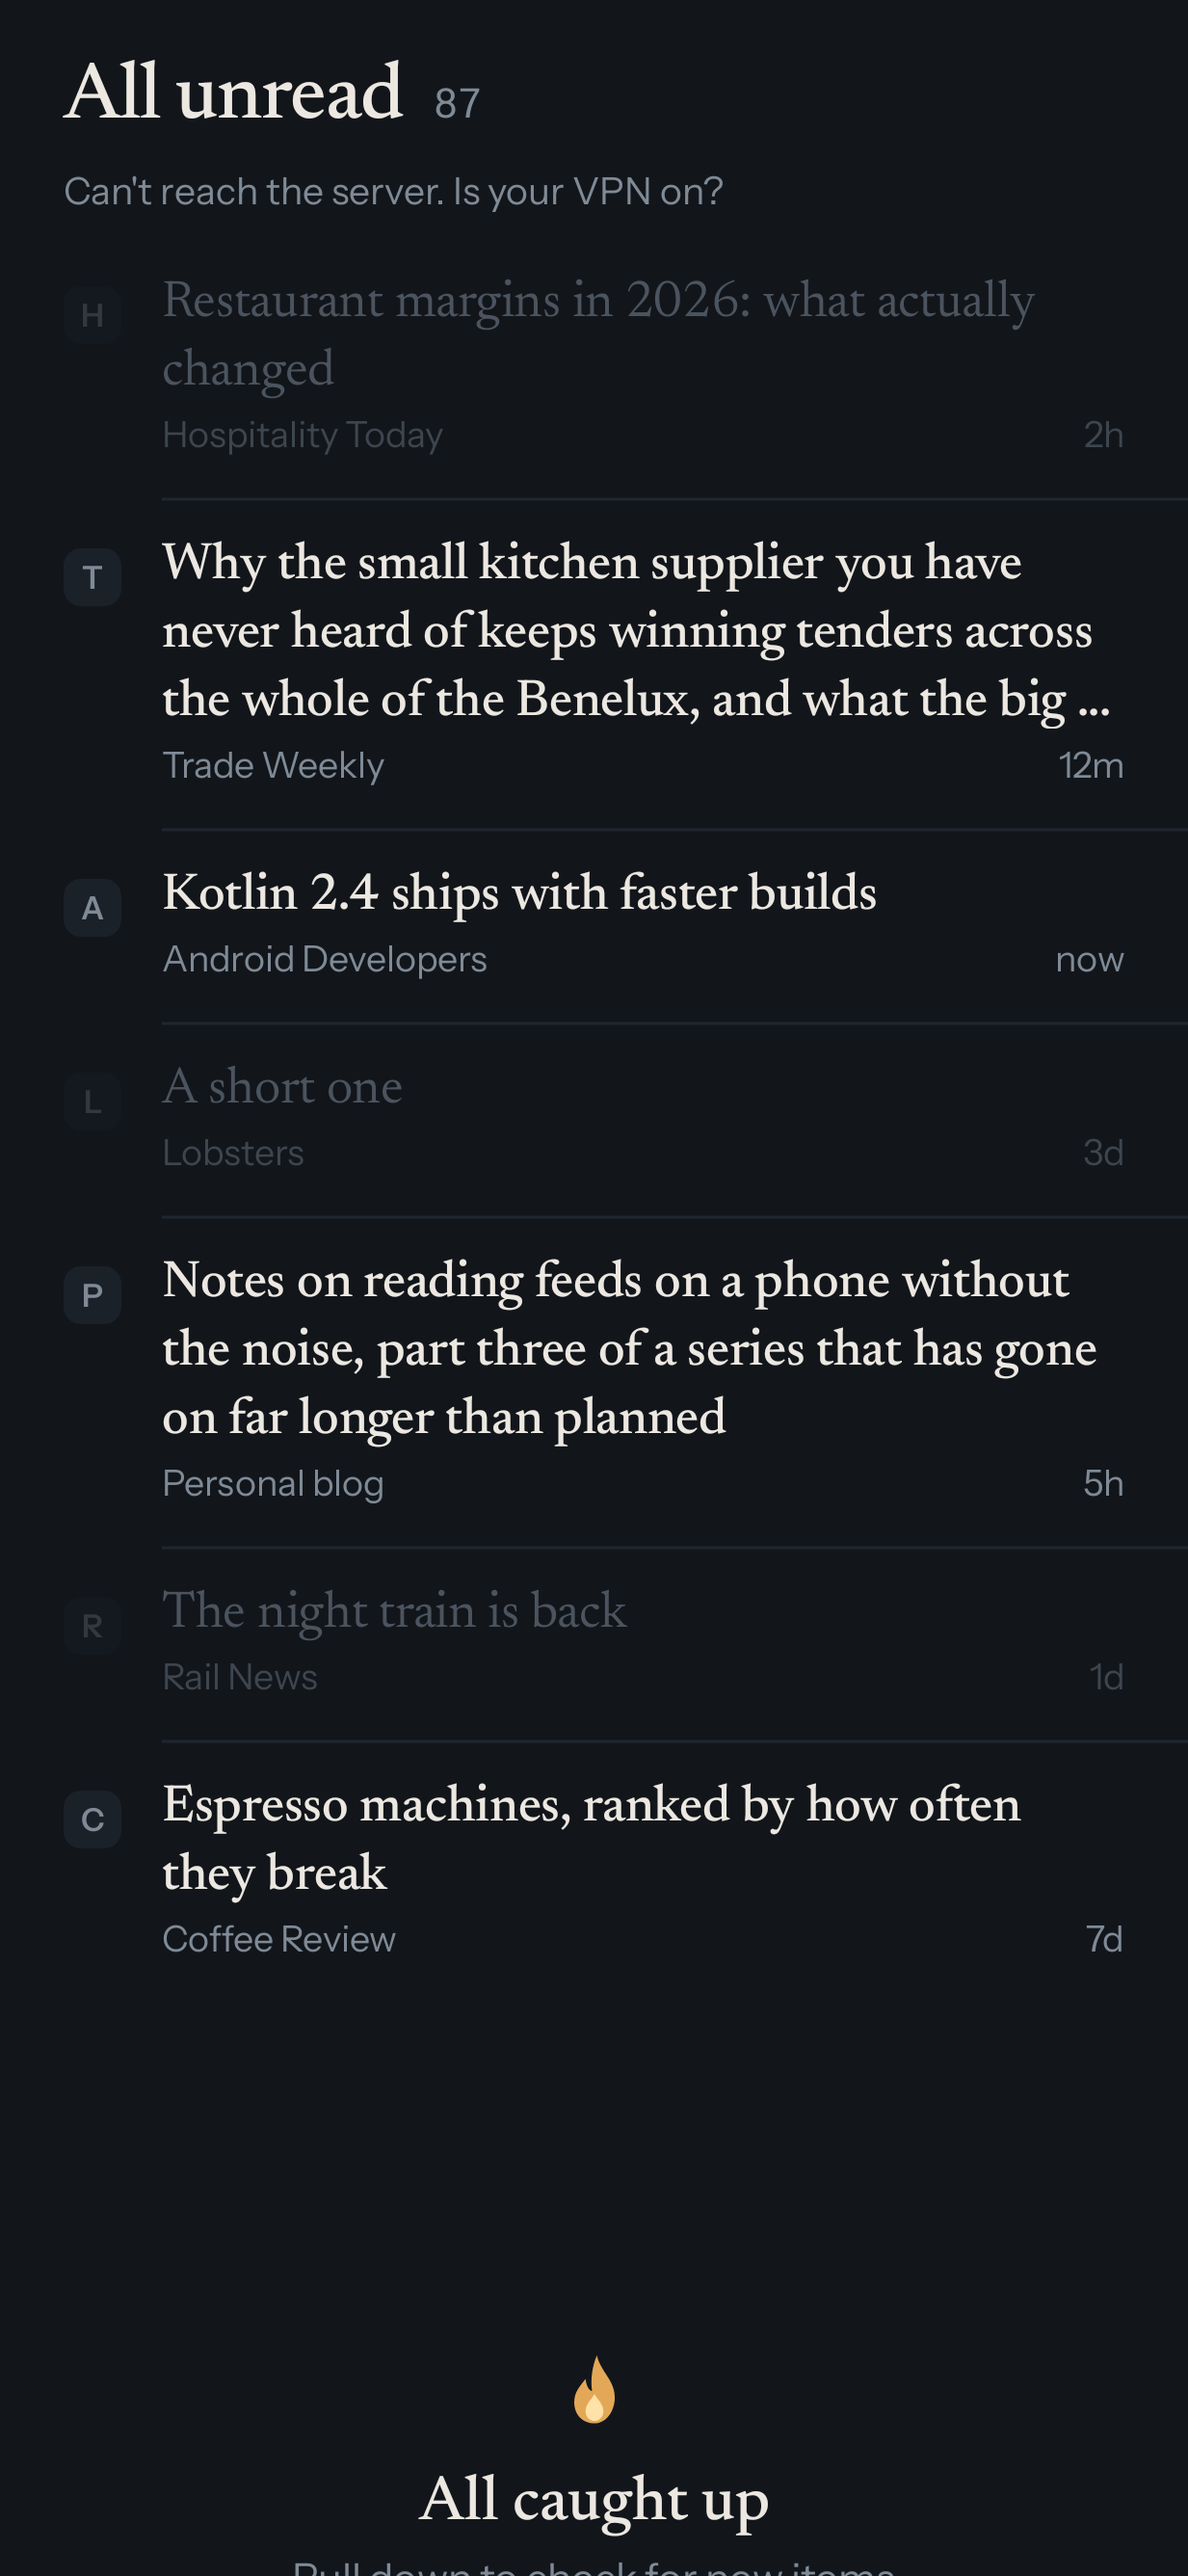
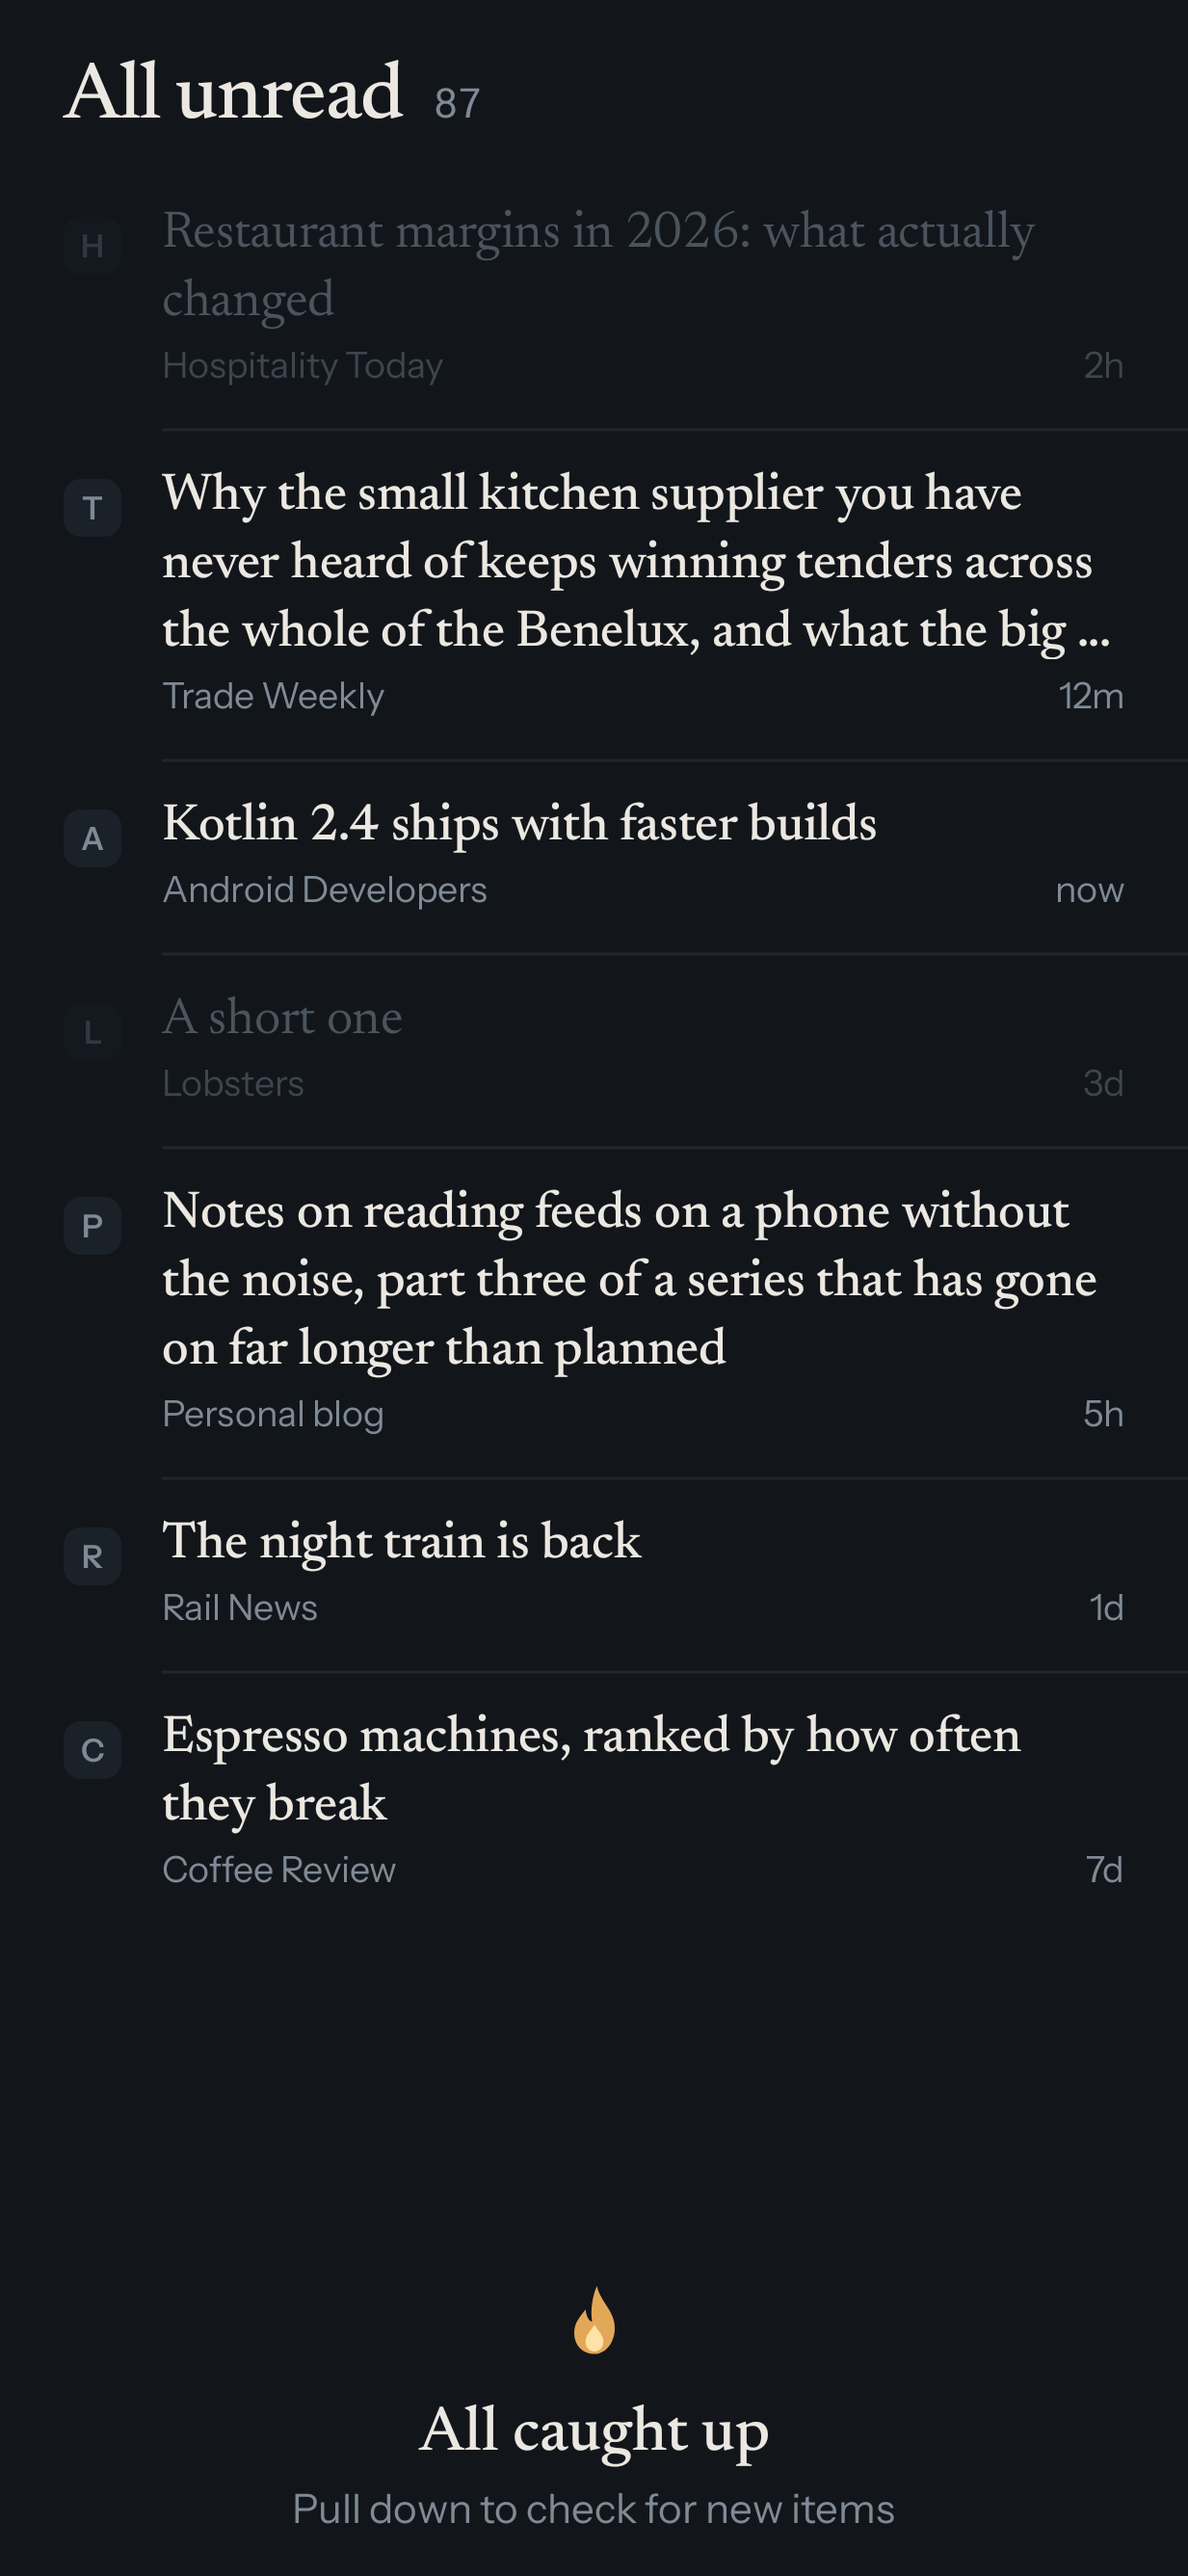
Use a clean list screenshot

diff --git a/app/src/test/java/io/github/bardesss/wick/ui/ScreenSnapshots.kt b/app/src/test/java/io/github/bardesss/wick/ui/ScreenSnapshots.kt
@@ -116,7 +116,25 @@ class ScreenSnapshots {
     }
 
     @Test
-    fun list_swipes() = snap("list_swipes") {
+    fun list_clean() = snap("list_clean") {
+        ListContent(
+            viewName = "All unread",
+            count = 87,
+            message = null,
+            rows = sample,
+            read = remember { mutableStateOf(setOf("1", "4")) },
+            nowSec = now,
+            refreshing = false,
+            listState = rememberLazyListState(),
+            onRefresh = {},
+            onOpenPicker = {},
+            onOpen = {},
+            onFrame = { false },
+        )
+    }
+
+    @Test
+    fun list_swipes()= snap("list_swipes") {
         // row 2 dragged right past the threshold, row 5 dragged left past it
         val px = with(LocalDensity.current) { 100.dp.toPx() }
         ListContent(
